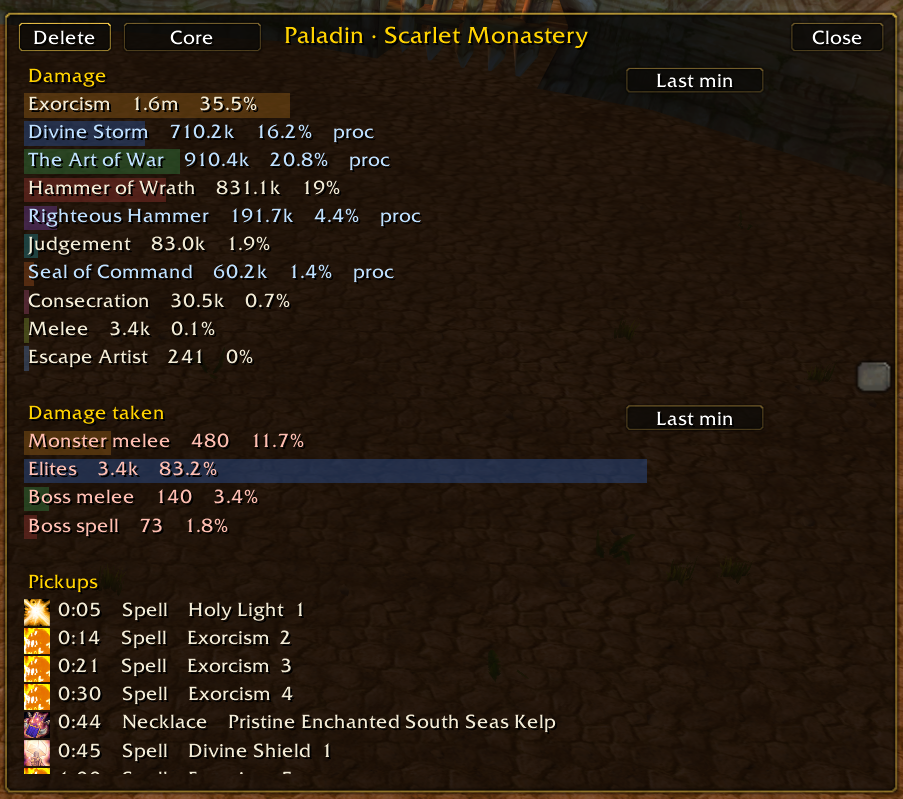
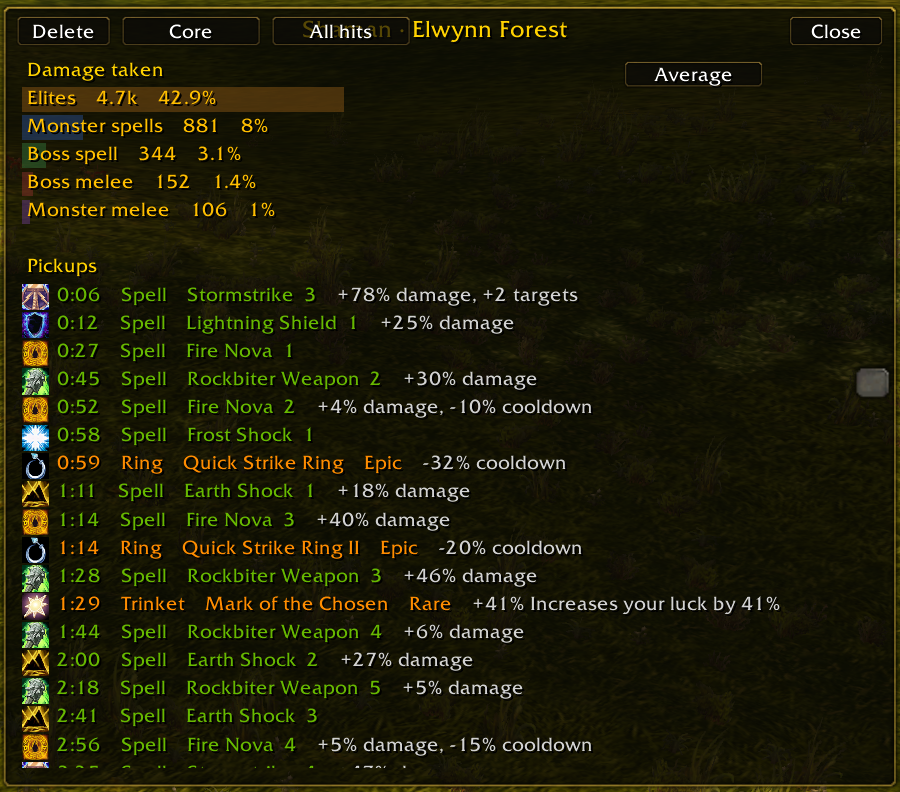
Show the new options, run list, spell upgrades, and damage share.

diff --git a/README.md b/README.md
@@ -67,19 +67,21 @@ Filter by class, map, and difficulty. Switch between endless, the full run, and 
 
 ### Run details
 
-Kills, damage, gold, and the character's stats.
+Date and time, pace for the whole run and the last minute, kills, gold, and the highest hit.
 
-![Run details, with kills and character stats](screenshots/history-stats.png)
+![Run details, with pace, kills, and the highest hit](screenshots/history-stats.png)
 
 ### Spells, jewelry, and damage
 
-Spells, with the total upgrades for each one, and jewelry, with what the piece does while equipped. Damage done, and each ability's share of that damage.
+Character stats. Spells, with the total upgrades for each one, and jewelry, with what the piece does while equipped. Damage done, and each ability's share of that damage.
 
-![Spells, jewelry, and damage done](screenshots/history-build.png)
+![Spells, with the total upgrades for each one](screenshots/history-build.png)
+
+![Jewelry, and each ability's share of the damage](screenshots/history-damage.png)
 
 ### Damage taken and pickups
 
-Damage for the last minute, damage taken, and pickups over time.
+Damage taken, with each source's share, and pickups with the increase from that rank.
 
 ![Damage taken and pickups over time](screenshots/history-pickups.png)
 
